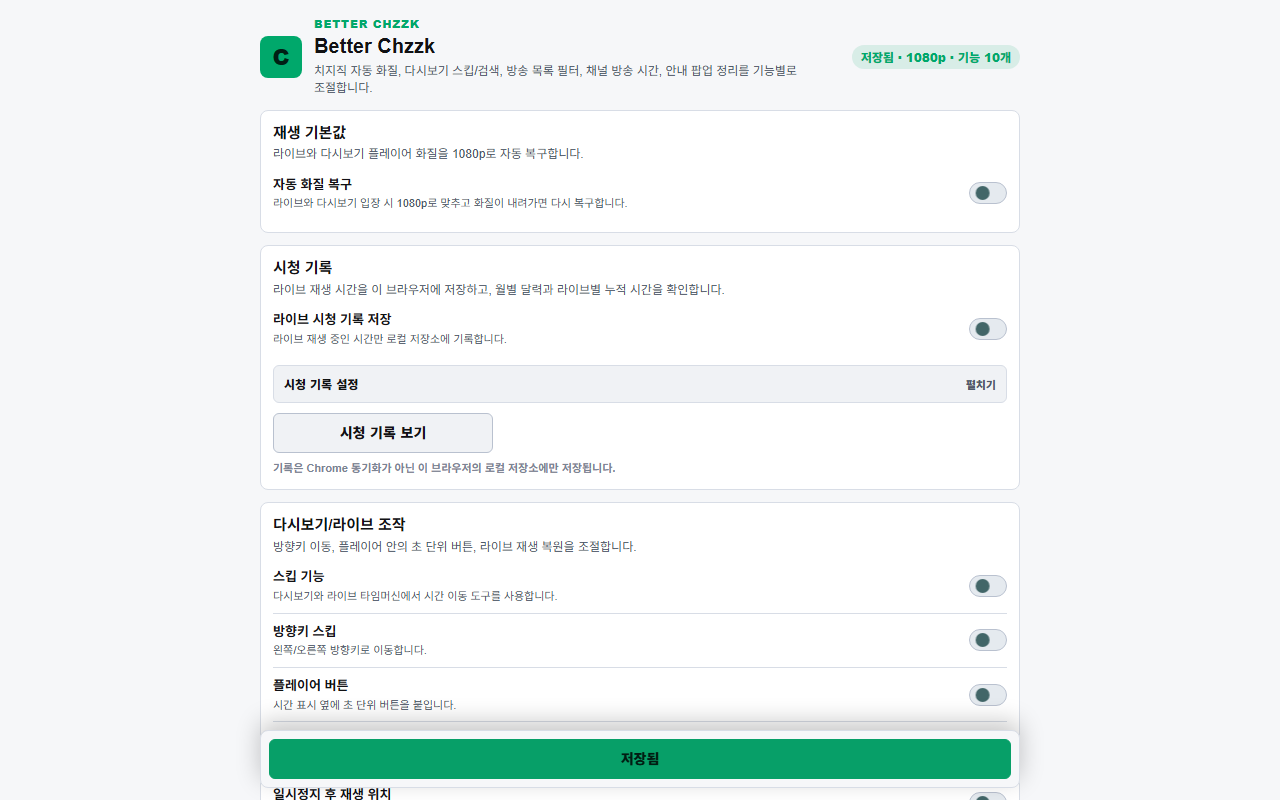
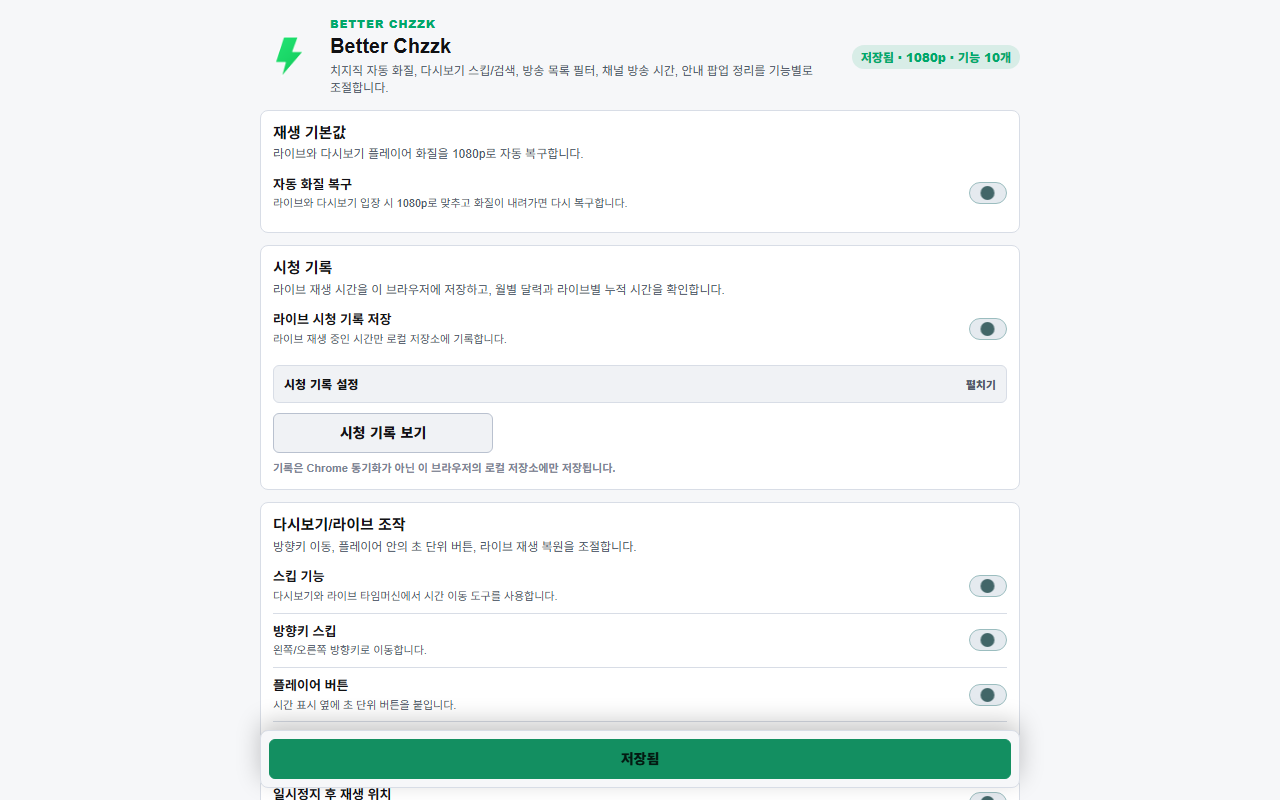
설정 화면 브랜드 아이콘 교체

diff --git a/styles.css b/styles.css
@@ -117,7 +117,7 @@ button {
 
 .hero {
     display: grid;
-    grid-template-columns: 42px minmax(0, 1fr) auto;
+    grid-template-columns: 58px minmax(0, 1fr) auto;
     gap: 12px;
     align-items: center;
 }
@@ -127,16 +127,10 @@ button {
 }
 
 .brand-mark {
-    display: inline-flex;
-    align-items: center;
-    justify-content: center;
-    width: 42px;
-    height: 42px;
-    border-radius: 8px;
-    color: #001f14;
-    background: var(--accent);
-    font-size: 22px;
-    font-weight: 900;
+    display: block;
+    width: 58px;
+    height: 58px;
+    object-fit: contain;
 }
 
 .eyebrow,
@@ -1230,14 +1224,13 @@ h1 {
     }
 
     .hero {
-        grid-template-columns: 36px minmax(0, 1fr);
+        grid-template-columns: 44px minmax(0, 1fr);
         gap: 8px;
     }
 
     .brand-mark {
-        width: 36px;
-        height: 36px;
-        font-size: 18px;
+        width: 44px;
+        height: 44px;
     }
 
     h1 {

diff --git a/history.html b/history.html
@@ -9,7 +9,7 @@
 <body>
     <main class="options-page history-page">
         <header class="hero">
-            <div class="brand-mark" aria-hidden="true">C</div>
+            <img class="brand-mark" src="icons/icon128.png" alt="" aria-hidden="true">
             <div>
                 <p class="eyebrow">Better Chzzk</p>
                 <h1>시청 기록</h1>

diff --git a/options.html b/options.html
@@ -9,7 +9,7 @@
 <body>
     <main class="options-page">
         <header class="hero">
-            <div class="brand-mark" aria-hidden="true">C</div>
+            <img class="brand-mark" src="icons/icon128.png" alt="" aria-hidden="true">
             <div>
                 <p class="eyebrow">Better Chzzk</p>
                 <h1>Better Chzzk</h1>
